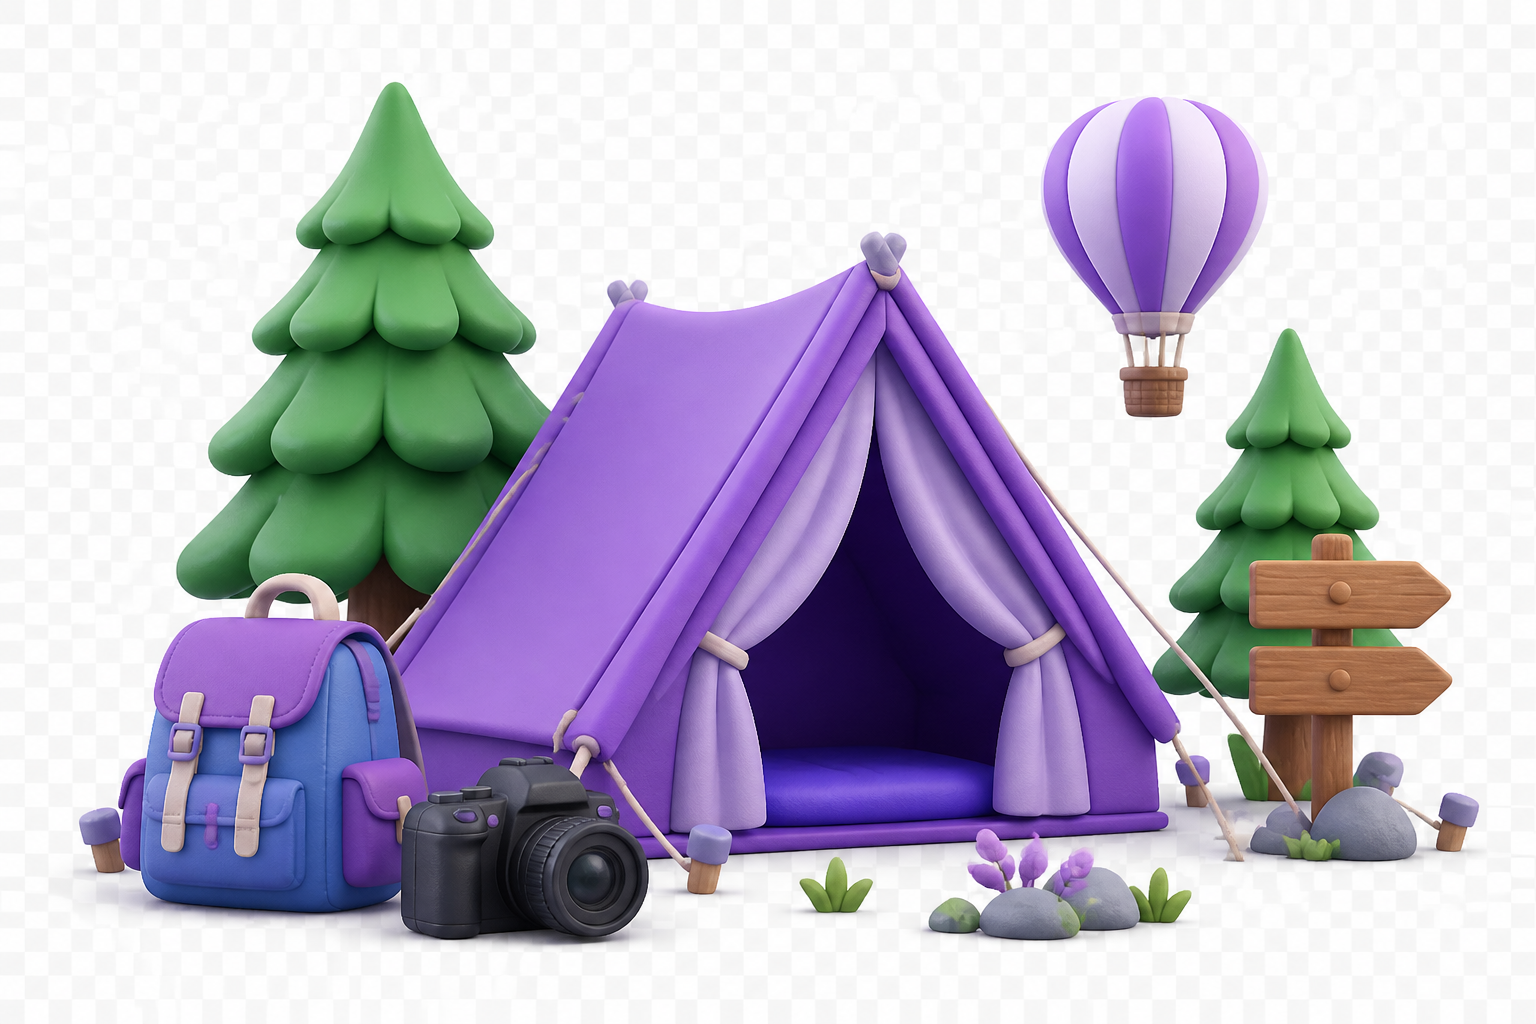
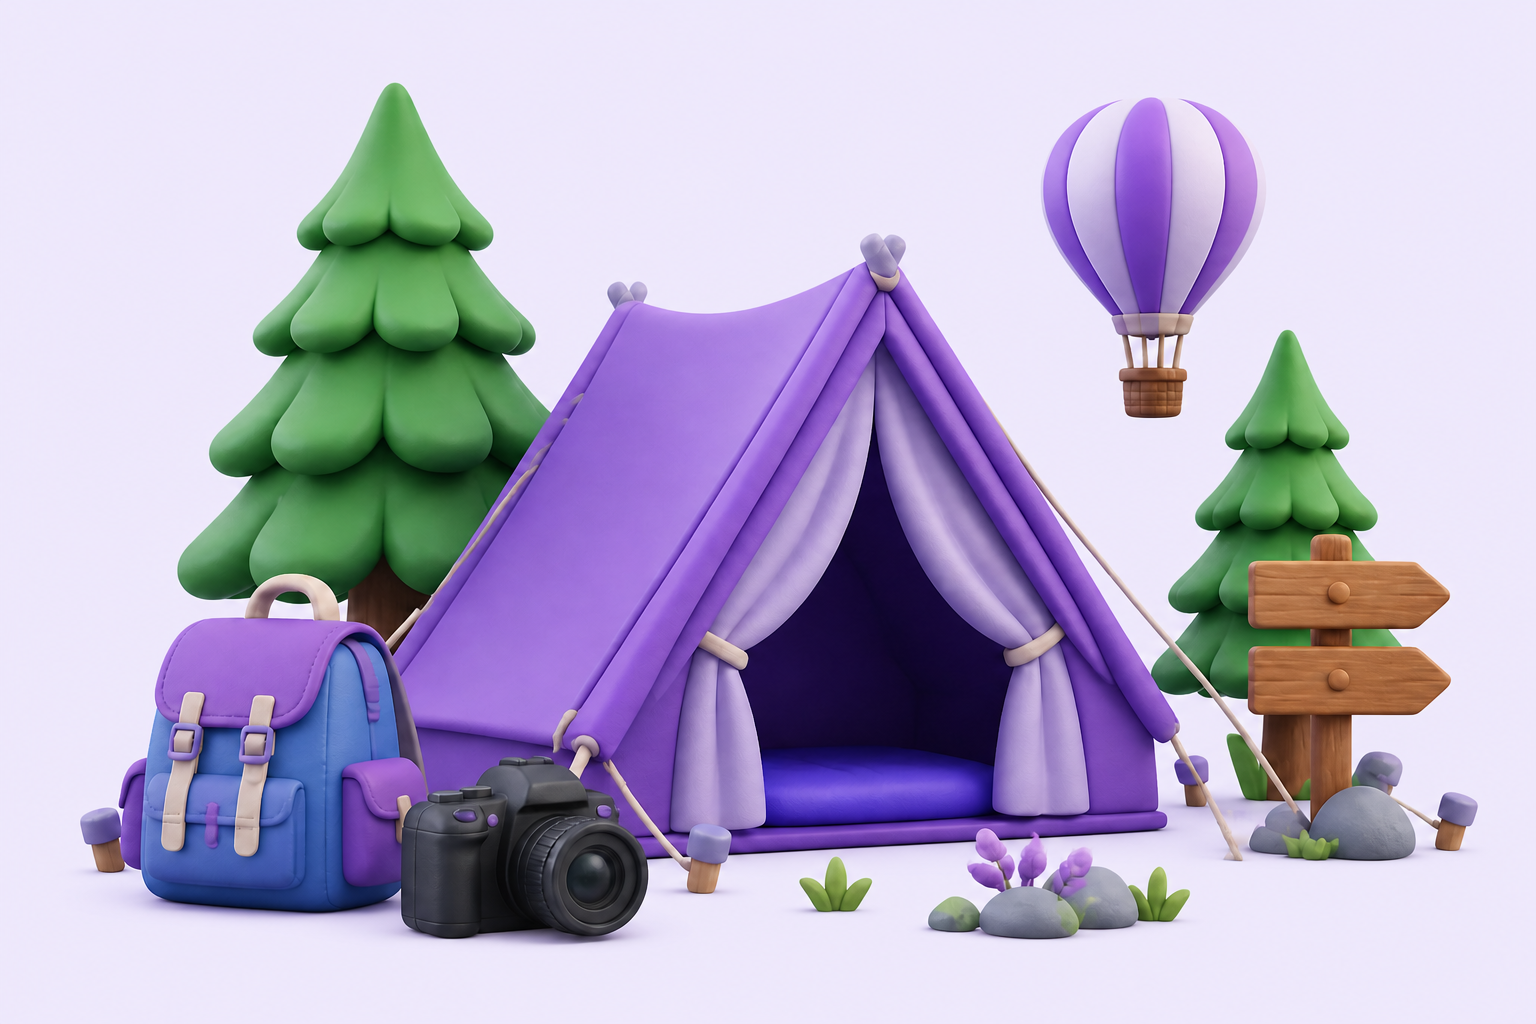
fix: remove artwork grids and simplify room hierarchy

diff --git a/app/globals.css b/app/globals.css
@@ -156,3 +156,15 @@ button:disabled{cursor:not-allowed;opacity:.55}
 @media(max-width:420px){.home-intro h1{font-size:33px}.home-choice-card{min-height:340px}.home-choice-card>img{height:175px}.demo-header-right .demo-badge{display:none}.create-process{grid-template-columns:1fr}.create-page .duration-choice-row{grid-template-columns:repeat(2,1fr)}}
 .home-process{grid-template-columns:1fr auto 1fr auto 1fr auto 1fr;gap:18px}
 @media(max-width:700px){.home-process{grid-template-columns:1fr;gap:14px}}
+
+/* Quieter hierarchy: one shared room surface instead of stacked white cards. */
+.home-choice-card>img{mix-blend-mode:normal;border-radius:24px}
+.room-page .data-audit-strip{background:transparent;box-shadow:none;border-top:1px solid rgba(94,76,164,.10);border-bottom:1px solid rgba(94,76,164,.10);border-radius:0;padding:13px 2px}
+.room-page .room-grid{max-width:920px;padding:20px;border:1px solid rgba(94,76,164,.09);border-radius:30px;background:rgba(255,255,255,.48);box-shadow:0 18px 48px rgba(55,40,125,.06);backdrop-filter:blur(18px);grid-template-columns:1fr 245px}
+.room-page .room-main-card{background:transparent;box-shadow:none;border:0;padding:10px 20px 10px 10px}
+.room-page .invite-card{background:linear-gradient(145deg,rgba(238,250,242,.78),rgba(255,255,255,.62));box-shadow:none;border:1px solid rgba(42,157,84,.08)}
+.room-page .member{background:rgba(255,255,255,.58);border-color:rgba(94,76,164,.08)}
+.room-page .round-status-card{max-width:920px;background:transparent;box-shadow:none;border-bottom:1px solid rgba(94,76,164,.10);border-radius:0;padding:18px 4px}
+.room-page .public-constraint{max-width:920px;background:transparent;box-shadow:none;border:0;padding:10px 4px}
+.room-page .public-constraint span{background:rgba(104,84,190,.08)}
+@media(max-width:900px){.room-page .room-grid{grid-template-columns:1fr}.room-page .room-main-card{padding:8px}.room-page .invite-card{margin-top:4px}}
